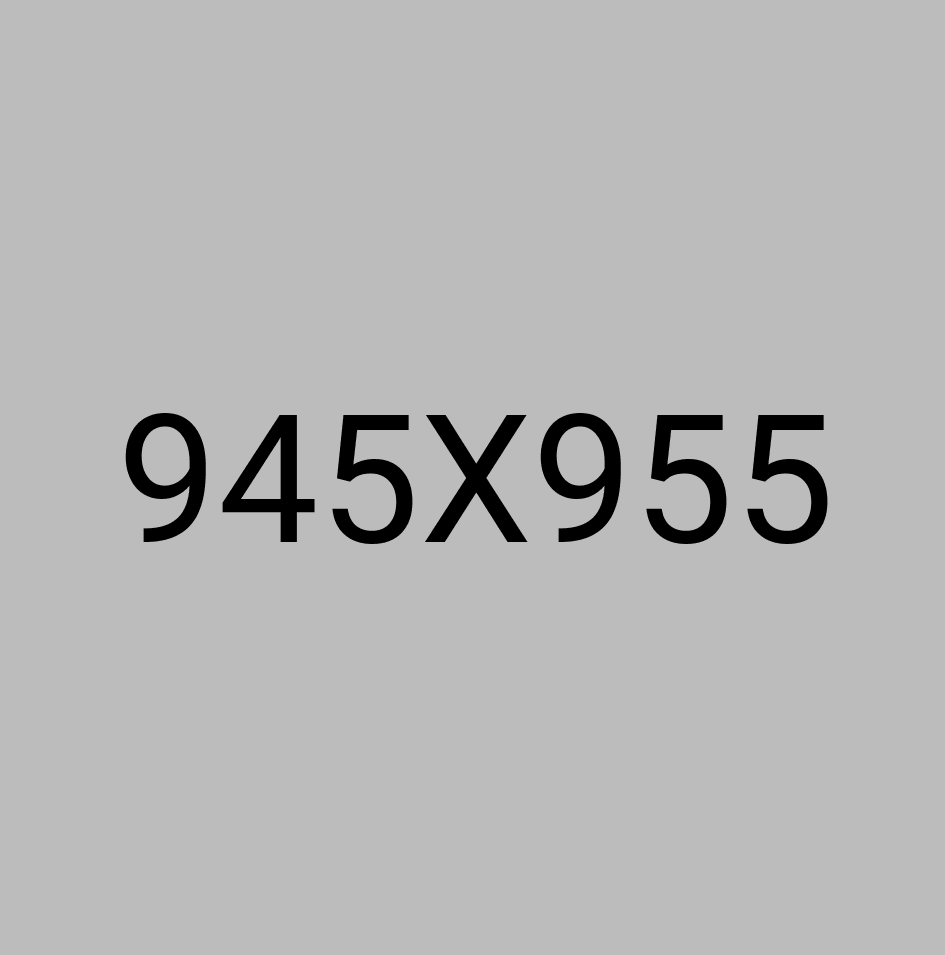
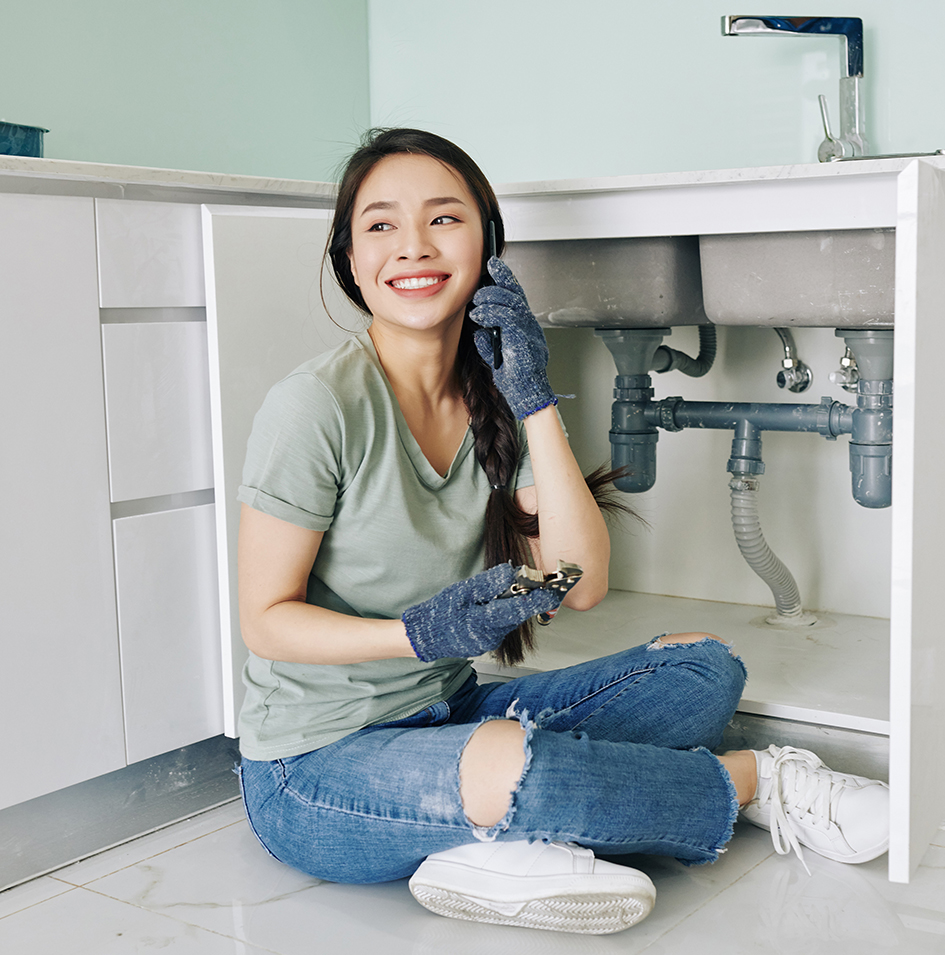
fix: modify images of  online booking form

diff --git a/src/components/home/landing-page.tsx b/src/components/home/landing-page.tsx
@@ -508,7 +508,11 @@ export const LandingPage = () => {
             ))}
           </div>
           <div className={styles.projectsButtonWrap}>
-            <Link prefetch={false} href="/services" className={styles.primaryCta}>
+            <Link
+              prefetch={false}
+              href="/services"
+              className={styles.primaryCta}
+            >
               View All Projects
             </Link>
           </div>
@@ -521,7 +525,8 @@ export const LandingPage = () => {
             <span>Top master agents</span>
             <h2>Dedicated Member</h2>
             <p className={styles.sectionDescription}>
-              Meet the standout specialists homeowners trust most for speed, consistency, and high-quality results.
+              Meet the standout specialists homeowners trust most for speed,
+              consistency, and high-quality results.
             </p>
           </div>
           <div className={styles.teamSliderWrap}>
@@ -575,7 +580,9 @@ export const LandingPage = () => {
                         <div className={styles.teamMetric}>
                           <UsersThree size={18} weight="duotone" />
                           <div>
-                            <strong>{formatCompactNumber(item.followers)}</strong>
+                            <strong>
+                              {formatCompactNumber(item.followers)}
+                            </strong>
                             <small>Followers</small>
                           </div>
                         </div>
@@ -590,9 +597,18 @@ export const LandingPage = () => {
       </section>
 
       <section className={styles.contactSection} id="booking">
-        <div className={styles.contactMedia}>
+        <div className={styles.contactAccent} aria-hidden="true">
           <Image
             src="/theme/images/contact.png"
+            alt=""
+            width={360}
+            height={360}
+            className={styles.contactAccentImage}
+          />
+        </div>
+        <div className={styles.contactMedia}>
+          <Image
+            src="/theme/images/contact.jpg"
             alt="Online booking"
             fill
             className={styles.contactImage}
@@ -637,7 +653,7 @@ export const LandingPage = () => {
                   placeholder="Describe the issue you need help with"
                 />
                 <button type="submit" className={styles.primaryButton}>
-                  GET FREE QUOTE
+                  GET A BOOKING
                 </button>
               </form>
             </div>

diff --git a/src/components/home/landing-page.module.scss b/src/components/home/landing-page.module.scss
@@ -973,6 +973,25 @@ $gold: #f4b81c;
   overflow: hidden;
 }
 
+.contactAccent {
+  position: absolute;
+  left: -4%;
+  bottom: -8%;
+  z-index: 0;
+  pointer-events: none;
+
+  @media (max-width: 991px) {
+    display: none;
+  }
+}
+
+.contactAccentImage {
+  width: min(100%, 340px);
+  height: auto;
+  object-fit: contain;
+  opacity: 0.95;
+}
+
 .contactMedia {
   position: absolute;
   right: 0;
@@ -1014,6 +1033,8 @@ $gold: #f4b81c;
 }
 
 .contactLayout {
+  position: relative;
+  z-index: 1;
   min-height: 780px;
   display: flex;
   align-items: center;
